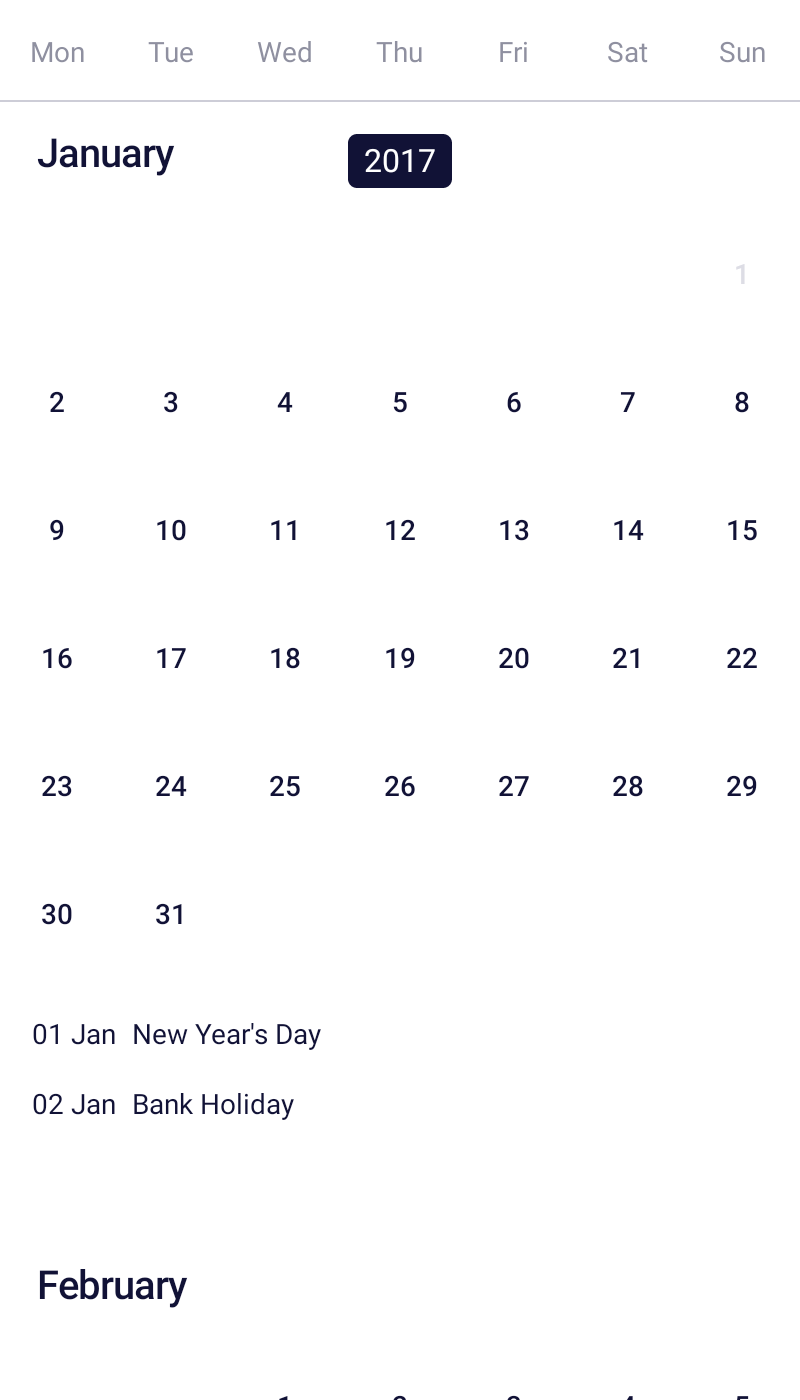
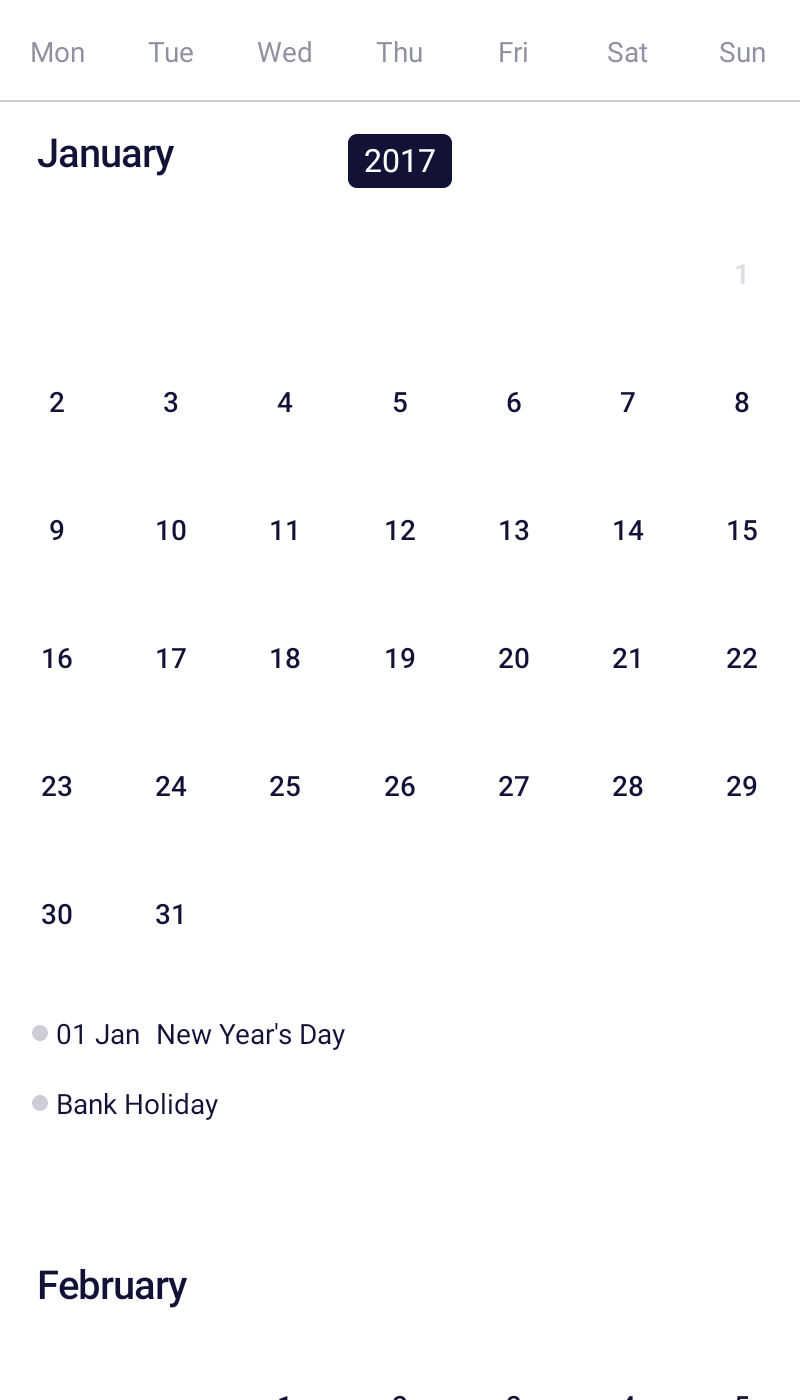
[BPK-3855] Add option to show description only to HighlightedDay

Changed region(s): [[0.0312, 0.7064, 0.4375, 0.7986]]

diff --git a/Backpack/src/main/java/net/skyscanner/backpack/calendar/view/HighlightedDaysMonthFooter.kt b/Backpack/src/main/java/net/skyscanner/backpack/calendar/view/HighlightedDaysMonthFooter.kt
@@ -3,10 +3,11 @@ package net.skyscanner.backpack.calendar.view
 import android.content.Context
 import android.content.res.ColorStateList
 import android.view.LayoutInflater
+import android.view.View
 import android.widget.LinearLayout
 import androidx.annotation.ColorInt
+import androidx.appcompat.widget.AppCompatImageView
 import androidx.constraintlayout.widget.ConstraintLayout
-import androidx.core.widget.TextViewCompat
 import net.skyscanner.backpack.R
 import net.skyscanner.backpack.calendar.presenter.DateFormatter
 import net.skyscanner.backpack.calendar.presenter.HighlightedDaysAdapter
@@ -37,6 +38,7 @@ open class HighlightedDaysMonthFooter(
     holidays?.forEach { holiday ->
       addView(
         HolidayView(context).apply {
+          descriptionOnly = holiday.descriptionOnly
           description = holiday.description
           date = formatDate(holiday.date)
           color = holiday.color
@@ -50,6 +52,9 @@ open class HighlightedDaysMonthFooter(
   private class HolidayView(context: Context) : ConstraintLayout(context) {
     private val dateView by unsafeLazy { findViewById<BpkText>(R.id.date) }
     private val descriptionView by unsafeLazy { findViewById<BpkText>(R.id.description) }
+    private val dotView by unsafeLazy { findViewById<AppCompatImageView>(R.id.dot) }
+    private val spacingMd = context.resources.getDimensionPixelSize(R.dimen.bpkSpacingMd)
+    private val spacingSm = context.resources.getDimensionPixelSize(R.dimen.bpkSpacingSm)
 
     init {
       LayoutInflater
@@ -74,7 +79,19 @@ open class HighlightedDaysMonthFooter(
       set(value) {
         field = value
         if (value != null) {
-          TextViewCompat.setCompoundDrawableTintList(dateView, ColorStateList.valueOf(value))
+          dotView.backgroundTintList = ColorStateList.valueOf(value)
+        }
+      }
+
+    var descriptionOnly = false
+      set(value) {
+        field = value
+        if (value) {
+          dateView.visibility = View.GONE
+          descriptionView.setPaddingRelative(spacingSm, 0, 0, 0)
+        } else {
+          dateView.visibility = View.VISIBLE
+          descriptionView.setPaddingRelative(spacingMd, 0, 0, 0)
         }
       }
   }

diff --git a/app/src/androidTest/java/net/skyscanner/backpack/calendar/BpkCalendarTest.kt b/app/src/androidTest/java/net/skyscanner/backpack/calendar/BpkCalendarTest.kt
@@ -413,8 +413,6 @@ class BpkCalendarTest : BpkSnapshotTest() {
     snap(wrapWithBackground(calendar))
   }
 
-  // NOTE: the "dot" before the holiday doesn't render because the test lib can't handle
-  // relative drawables
   @Test
   fun screenshotTestCalendarWithHighlightedDaysFooter() {
     val monthFooterAdapter = HighlightedDaysAdapter(
@@ -424,7 +422,9 @@ class BpkCalendarTest : BpkSnapshotTest() {
         HighlightedDaysAdapter.HighlightedDay(
           LocalDate.of(2017, 1, 1), "New Year's Day"),
         HighlightedDaysAdapter.HighlightedDay(
-          LocalDate.of(2017, 1, 2), "Bank Holiday")
+          date = LocalDate.of(2017, 1, 2),
+          description = "Bank Holiday",
+          descriptionOnly = true)
       )
     )
 

diff --git a/Backpack/src/main/java/net/skyscanner/backpack/calendar/presenter/HighlightedDaysAdapter.kt b/Backpack/src/main/java/net/skyscanner/backpack/calendar/presenter/HighlightedDaysAdapter.kt
@@ -56,6 +56,13 @@ open class HighlightedDaysAdapter(
   data class HighlightedDay(
     val date: LocalDate,
     val description: String,
-    @ColorInt val color: Int? = null
-  )
+    @ColorInt val color: Int? = null,
+    /**
+     * Shows only the description provided and not the date.
+     */
+    val descriptionOnly: Boolean = false
+  ) {
+    constructor(date: LocalDate, description: String, descriptionOnly: Boolean) :
+      this(date, description, null, descriptionOnly)
+  }
 }

diff --git a/app/src/main/java/net/skyscanner/backpack/demo/stories/FooterViewCalendarStory.kt b/app/src/main/java/net/skyscanner/backpack/demo/stories/FooterViewCalendarStory.kt
@@ -38,7 +38,8 @@ private class FooterViewCalendarController(
           CalendarCellStyle.Negative.color(context)),
         HighlightedDay(
           startDate.plusDays(2),
-          "Tea day"),
+          "Tea day",
+          descriptionOnly = true),
         HighlightedDay(
           endDate.minusDays(1),
           "I wish it was Friday day")

diff --git a/UNRELEASED.md b/UNRELEASED.md
@@ -4,6 +4,9 @@
 
 **Added:**
 
+- `BpkCalendar`:
+  - Added new `descriptionOnly` prop to `HighlightedDay`.
+
 - `BpkChip`:
   - Added new `chipIcon` prop.
 
